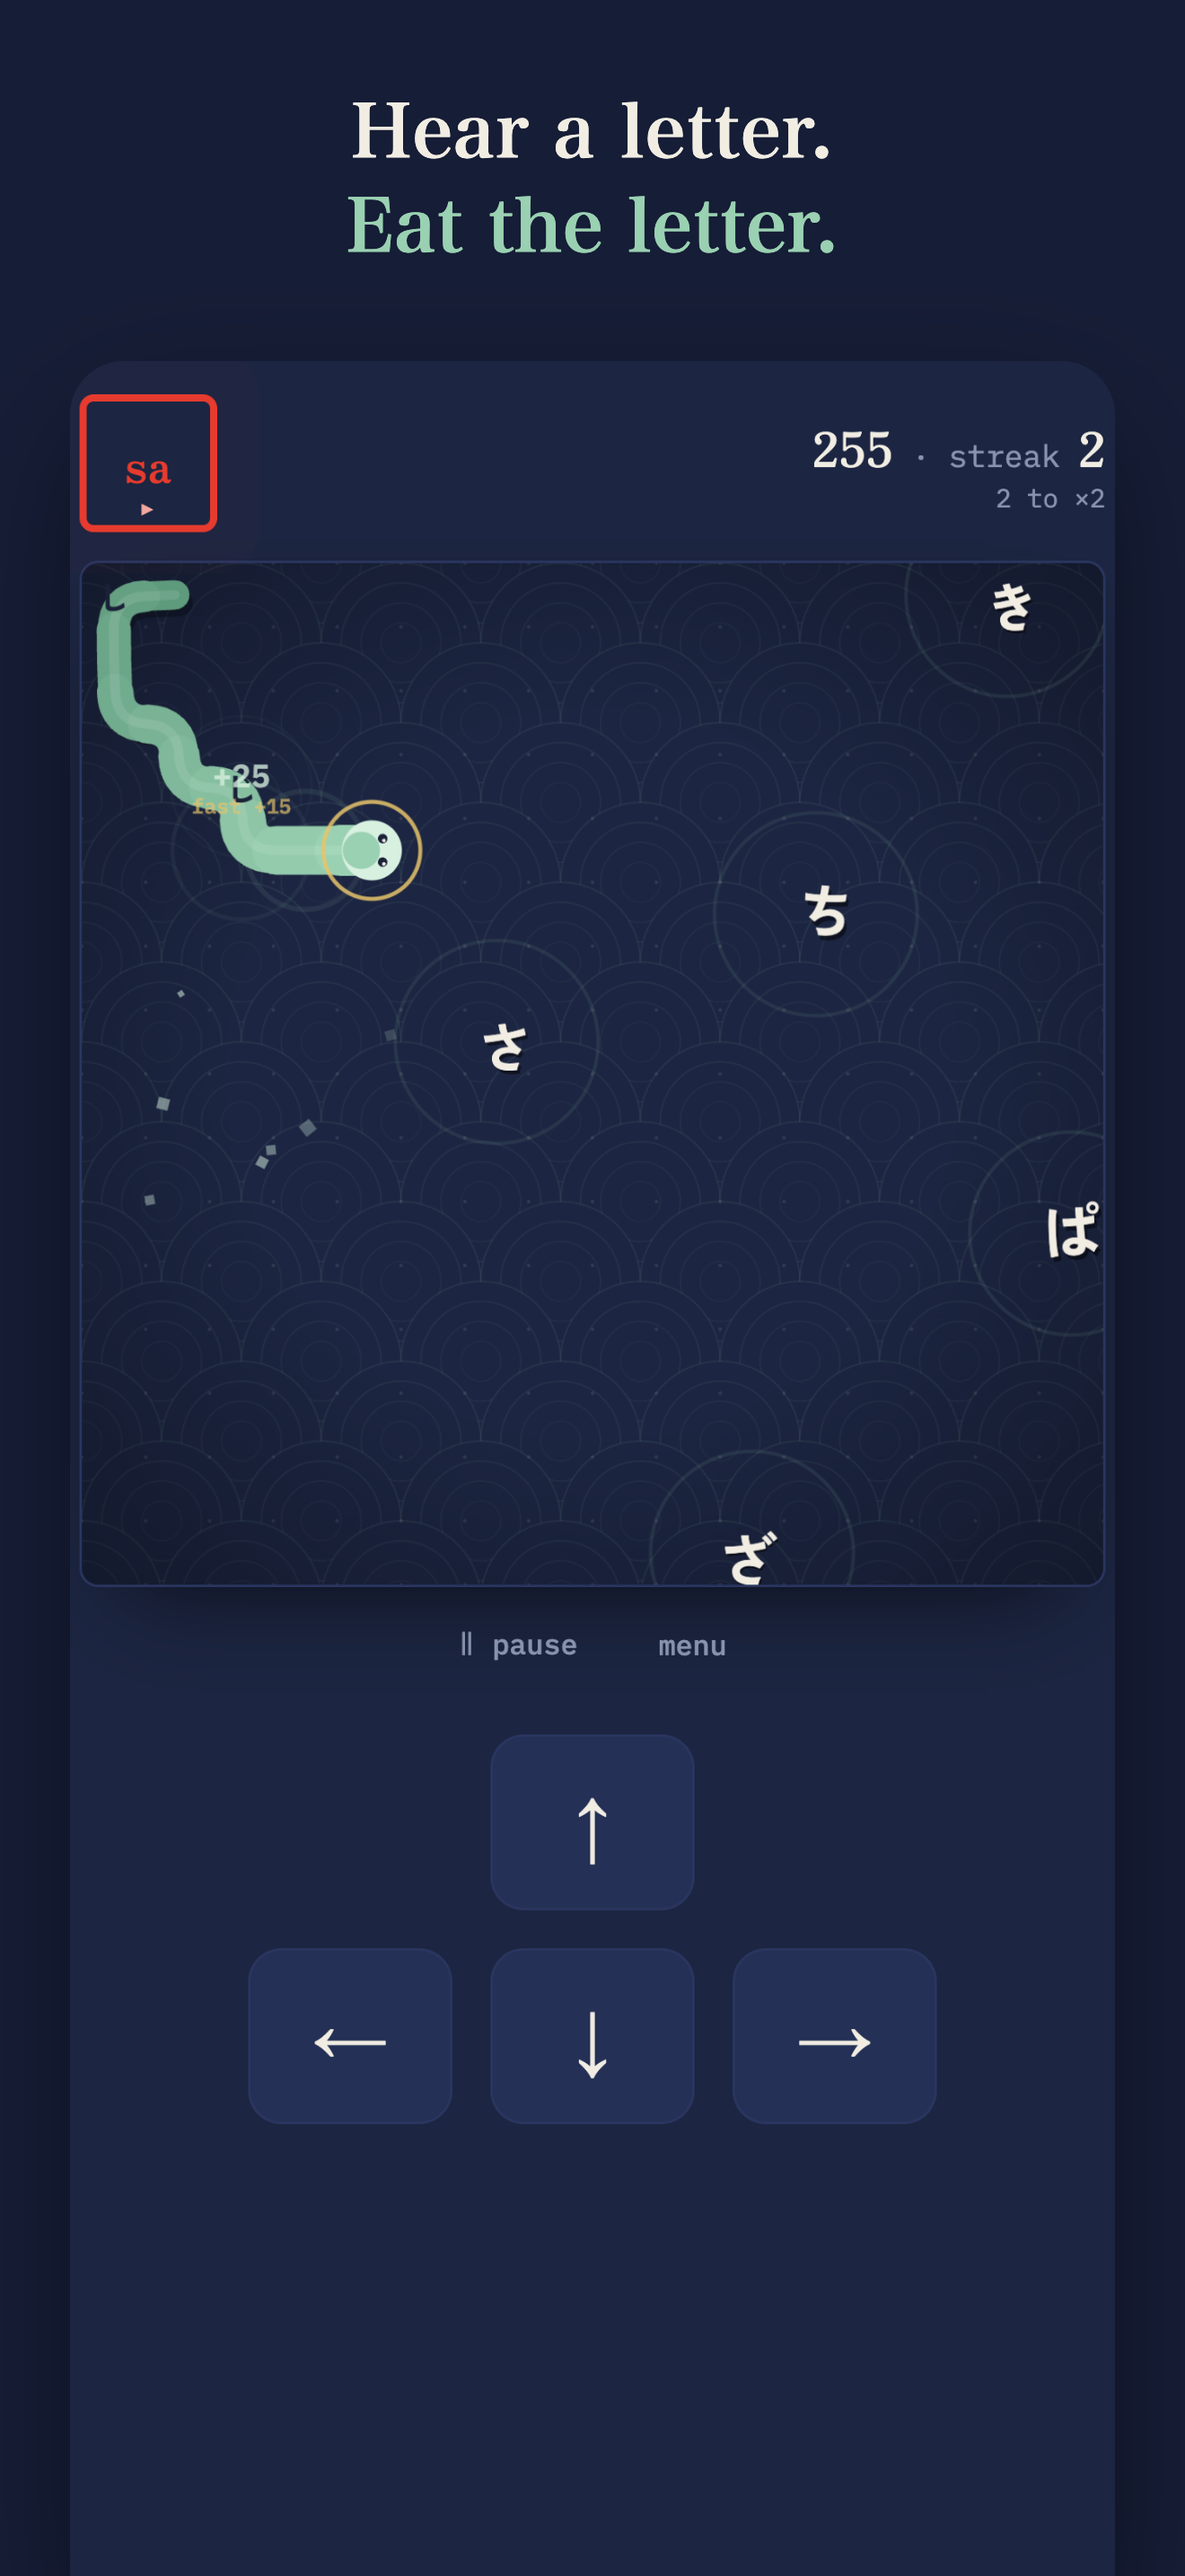
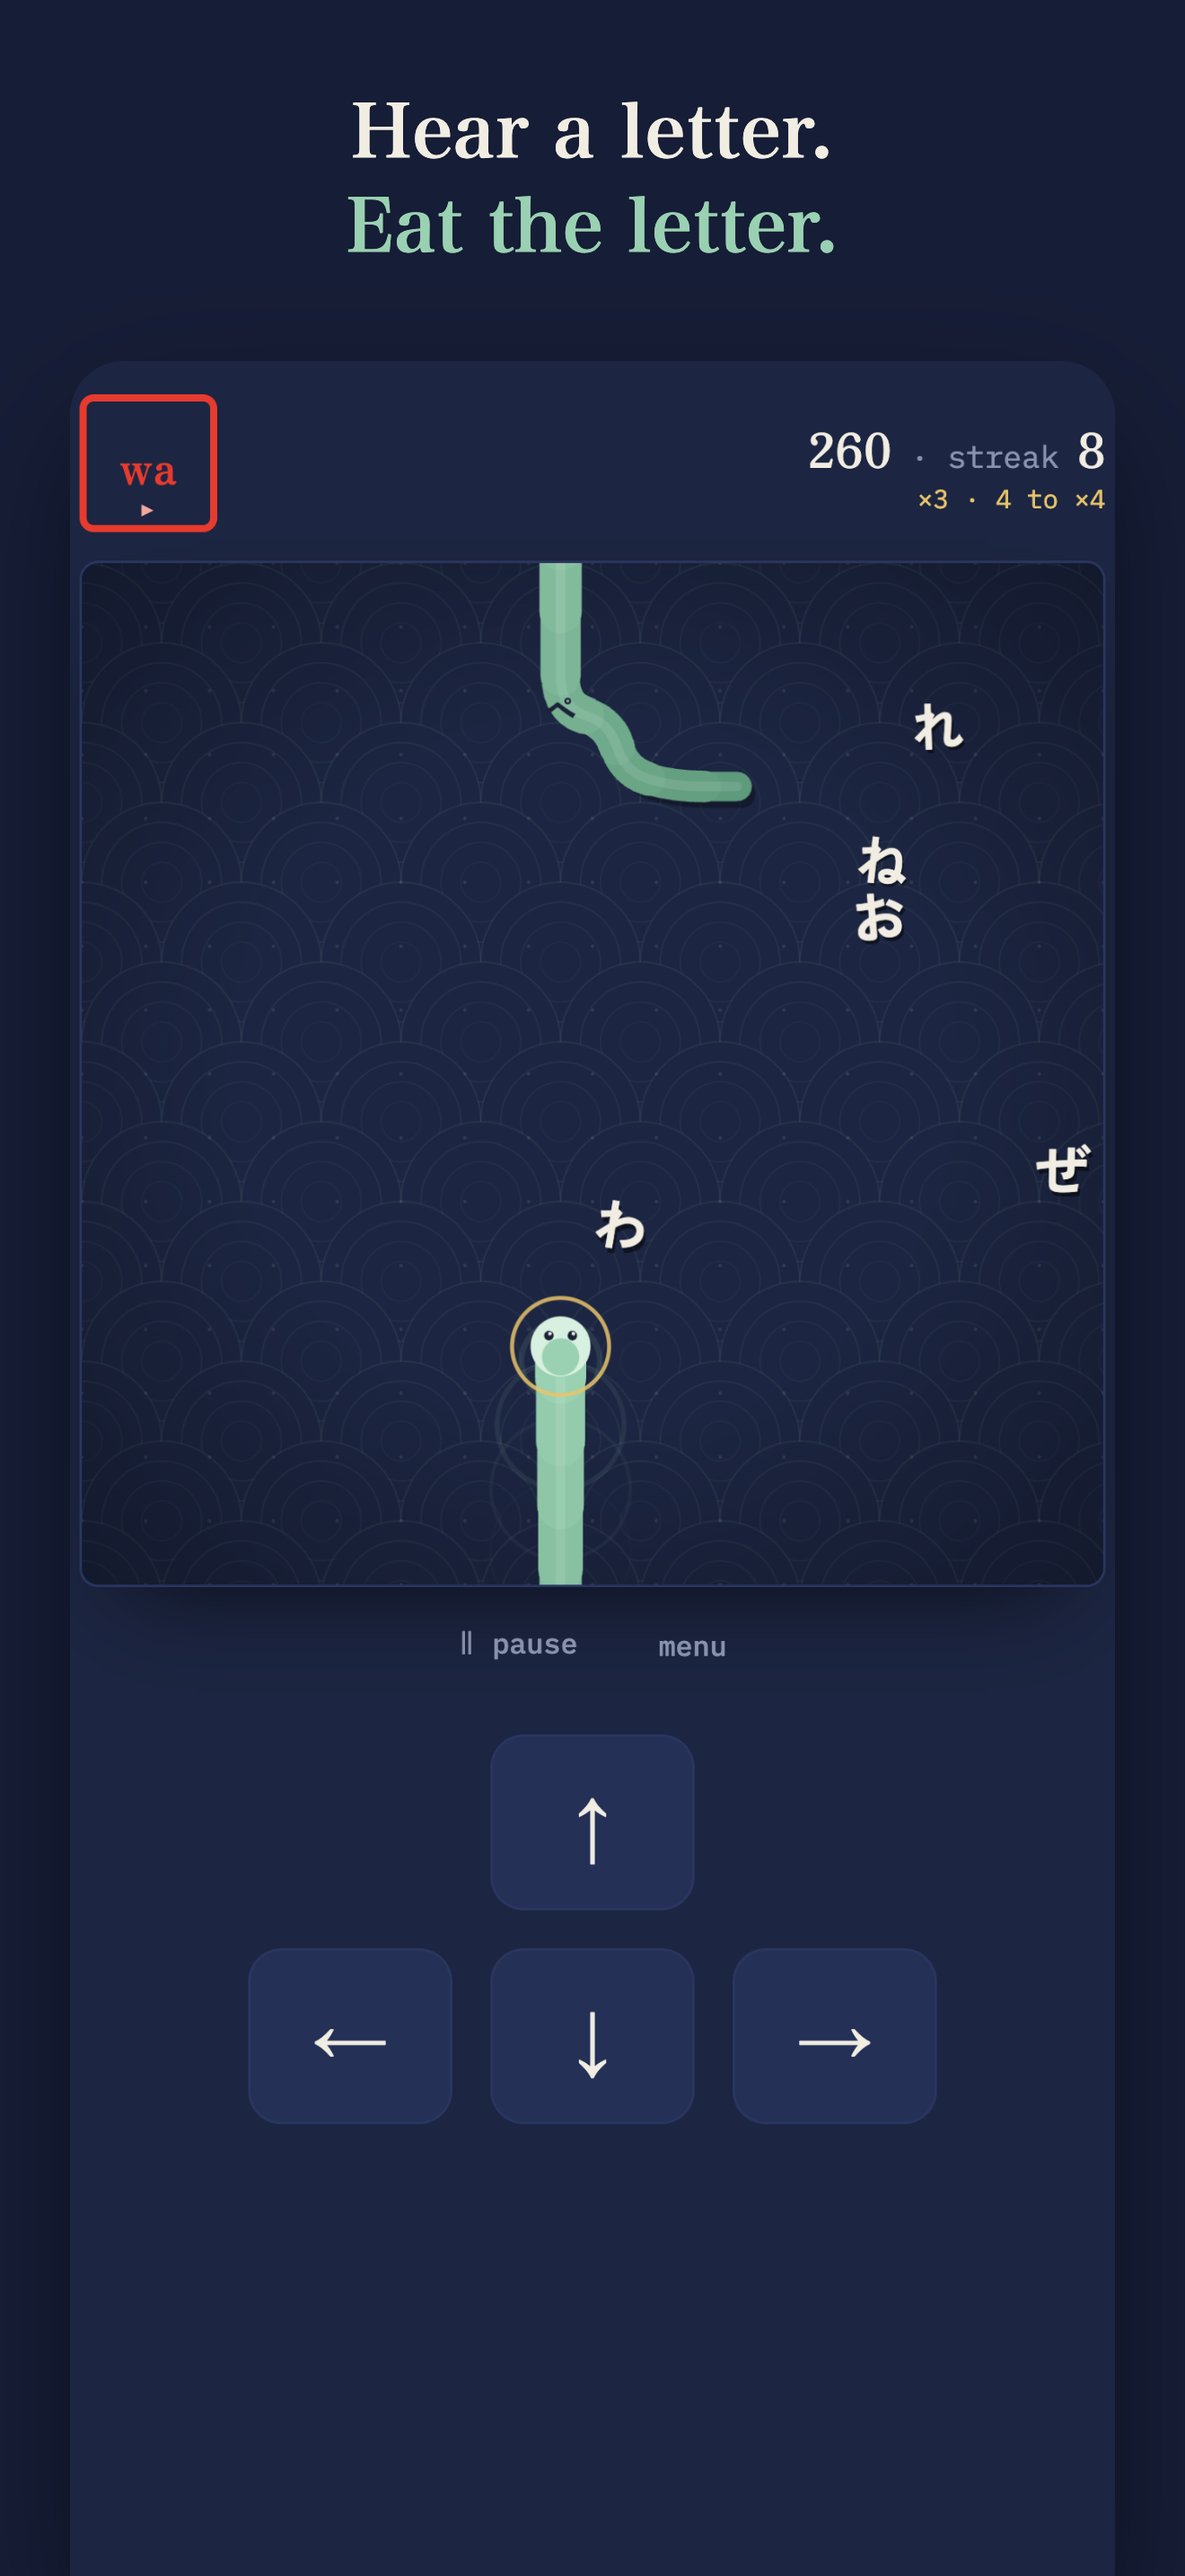
Fix the parent corner opening behind the chart, and reshoot the store set
The parent corner is opened FROM the chart, which is its own z-index:20
stacking layer, and it was a plain overlay at z-index:10 — so it opened
flawlessly and rendered underneath. A parent holding the button for three
seconds would have seen nothing happen at all.

Its test did not catch this because the test asserted DOM state — hidden is
false, the settings are present — and never asked what was actually on screen.
It now checks that the element at the centre of the viewport belongs to the
parent corner, which is the only version of that question a user would
recognise.

Six screenshots reshot against the current build: gameplay, phonics, counting,
the ladder, the parent corner and the chart. The set had gone stale twice over
— English now leads with sounds, counting and blending levels exist, and the
parent corner did not exist at all.

One caption said "How many is three?" over a board showing five dots. Fixed to
ask the question without naming the answer, since the shot is generated and
the number is whatever the run produced.

diff --git a/index.html b/index.html
@@ -219,6 +219,12 @@
 .lvl.current{border-color:rgba(154,209,178,.55);background:rgba(154,209,178,.07)}
 .lvl.current .state{color:#9AD1B2}
 
+/* The parent corner is opened FROM the chart, which is a z-index:20 layer of
+   its own, so it must sit above it — as a plain .ov (z-index:10) it opened
+   perfectly and rendered underneath, and a parent holding the button saw
+   nothing happen at all. */
+#parentScr{z-index:30}
+
 /* The parent corner's weekly view: the only screen written for an adult. */
 .week{background:rgba(255,255,255,.04);border:1px solid var(--grid);border-radius:10px;
   padding:12px 14px;margin:0 0 12px;text-align:left}

diff --git a/APPSTORE-LISTING.md b/APPSTORE-LISTING.md
@@ -120,29 +120,30 @@ a remote URL.
 
 ## Screenshots — DONE
 
-Five finished 1320x2868 PNGs (the 6.9-inch set, the only one App Store
-Connect requires — smaller sizes are scaled from it) are in
-`store-screenshots/`, captions already baked in. Upload in this order:
+Six finished 1320x2868 PNGs (the 6.9-inch set, the only one App Store Connect
+requires — smaller sizes are scaled from it) in `store-screenshots/`, captions
+baked in. Upload in this order:
 
 | File | Caption |
 |---|---|
 | `1-gameplay.png` | Hear a letter. / Eat the letter. |
-| `3-phonics.png` | b is for ball. / Sounds, not just names. |
-| `2-menu-ladder.png` | Always one / clear next step. |
-| `4-levels.png` | Letters, numbers, / and first words. |
-| `5-chart.png` | It knows what / they keep missing. |
+| `2-phonics.png` | b is for ball. / Sounds, not just names. |
+| `3-counting.png` | How many do you see? / Counting, not just numerals. |
+| `4-levels.png` | Always one / clear next step. |
+| `5-parent.png` | For grown-ups. / See what they practised. |
+| `6-chart.png` | It knows what / they keep missing. |
 
-Gameplay leads because it shows the rule in one glance. Phonics is second
-because it is the strongest claim for the audience this listing is written
-for — most alphabet apps drill letter NAMES, and names do not help a child
-decode a word.
+Gameplay leads because it shows the rule at a glance. Phonics is second
+because it is the strongest claim for this audience: most alphabet apps drill
+letter NAMES, and a name does not help a child decode a word. The parent
+corner is in the set deliberately — parents are the buyers, and "I can see
+what they practised" is the reason a grown-up keeps the app installed.
 
 Captured at 440x956 CSS pixels at 3x, which IS an iPhone 16 Pro Max, so the
-layout is the one a real phone renders rather than a desktop page scaled up.
-Verified against the same screens in the iOS Simulator.
+layout is the one a real phone renders. Verified against the Simulator.
 
 Note for a future pass: the app leaves a wide empty band above and below the
-menu card on a 6.9-inch phone — real, not a capture artefact, and confirmed
-in the Simulator. The screenshots hang the screen below a caption so the band
-reads as intentional padding, but the layout itself would be worth tightening
-for the largest phones.
+menu card on a 6.9-inch phone — real, not a capture artefact, confirmed in the
+Simulator. The compositions hang the screen below a caption so the band reads
+as intentional padding, but the layout is worth tightening for the largest
+phones.
